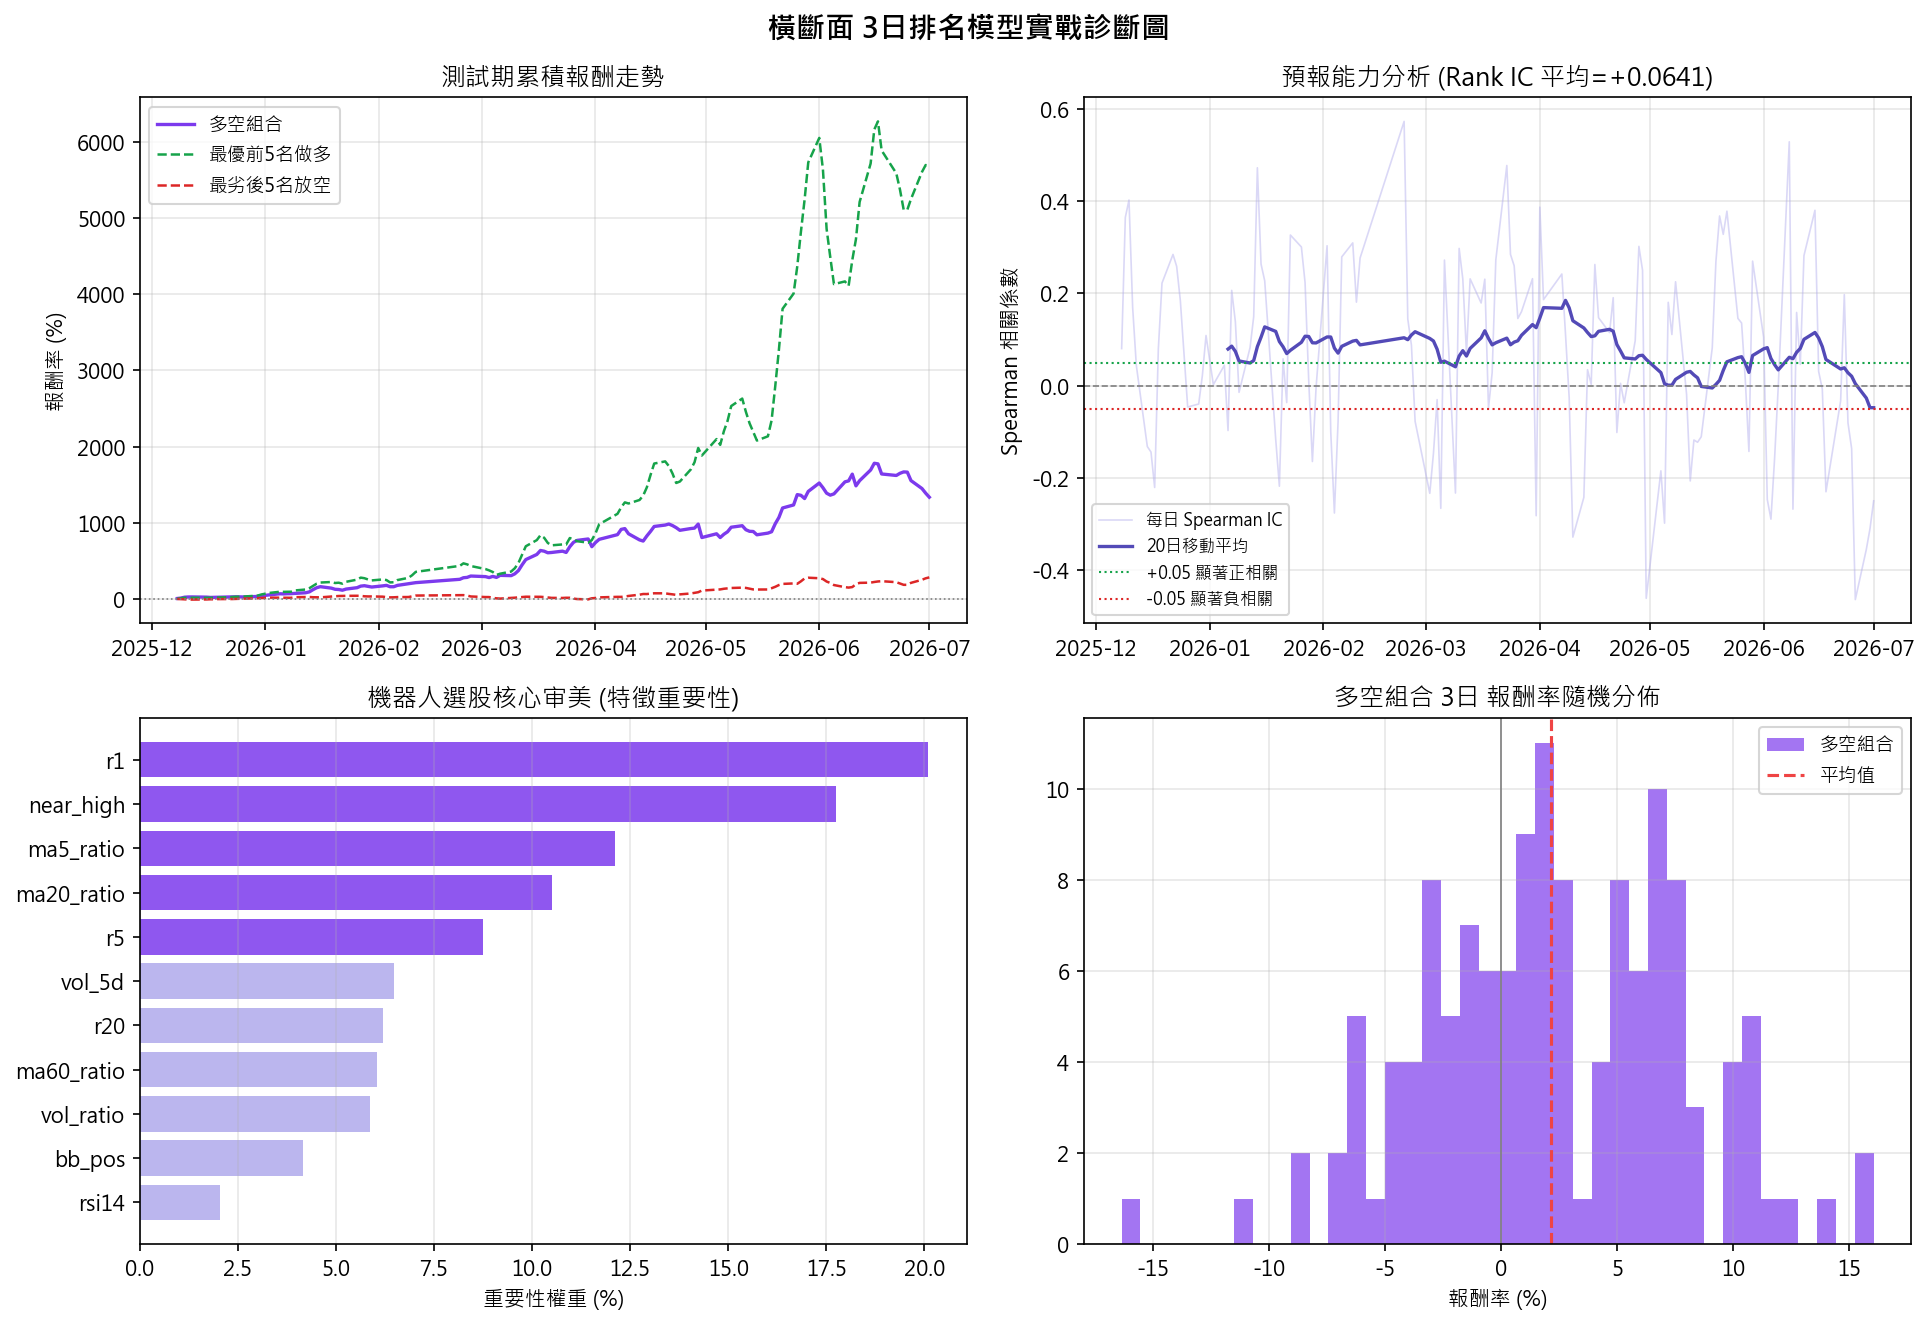
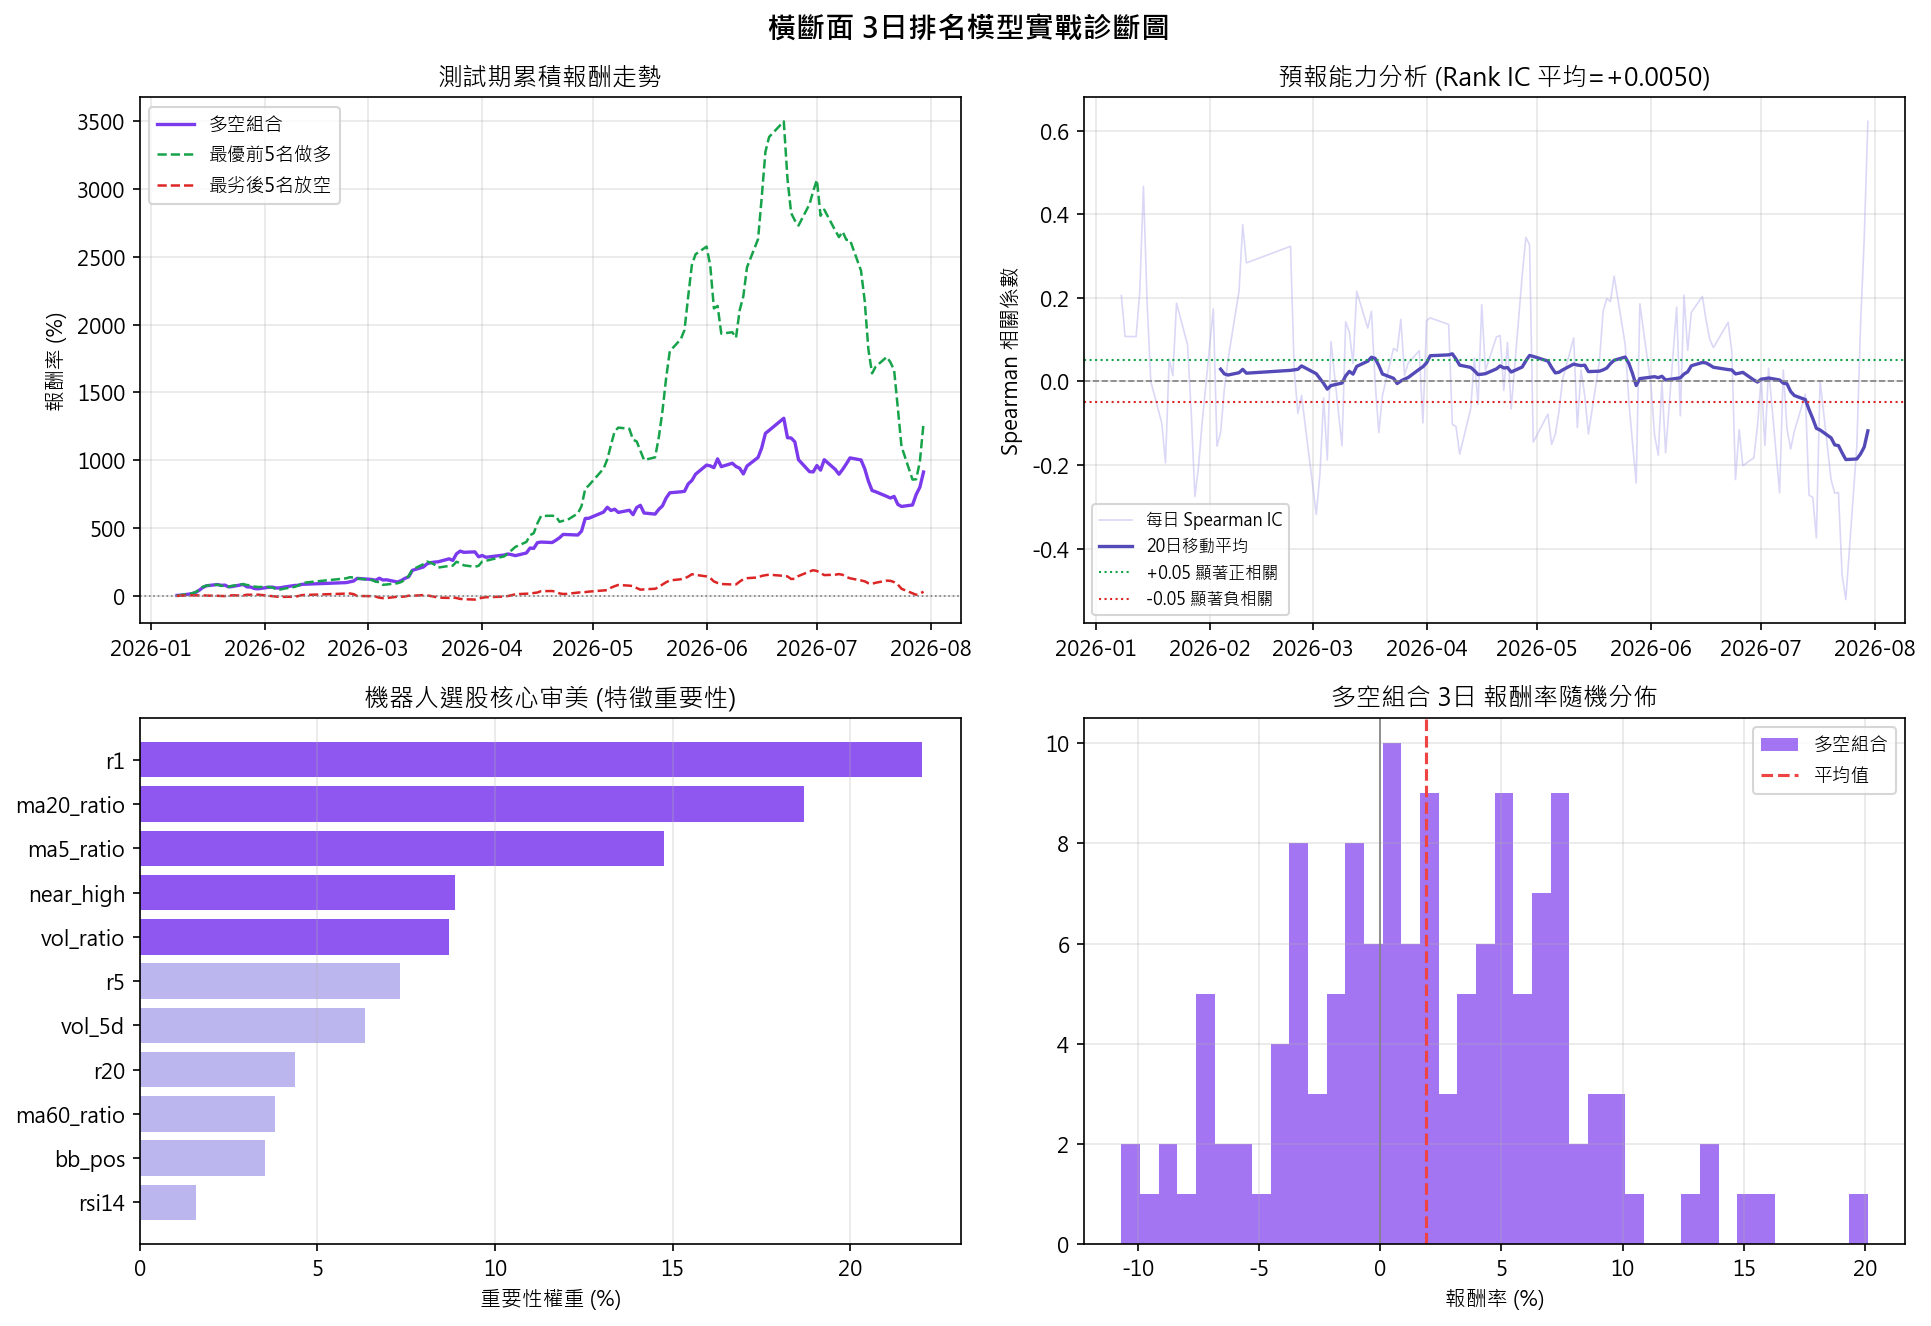
update: 更新排名圖表與watchlist同步

diff --git a/watchlist.py b/watchlist.py
@@ -1,5 +1,5 @@
-# watchlist.py -- auto synced from SinoPac (2026-07-12)
-# MY_HOLDINGS 自動同步；MY_WATCHLIST 每週自動更新
+# watchlist.py -- auto synced from SinoPac (2026-07-16)
+# MY_HOLDINGS 自動同步；MY_WATCHLIST 請手動維護
 
 MY_HOLDINGS = {
     "00927.TW":  "群益半導體收益",
